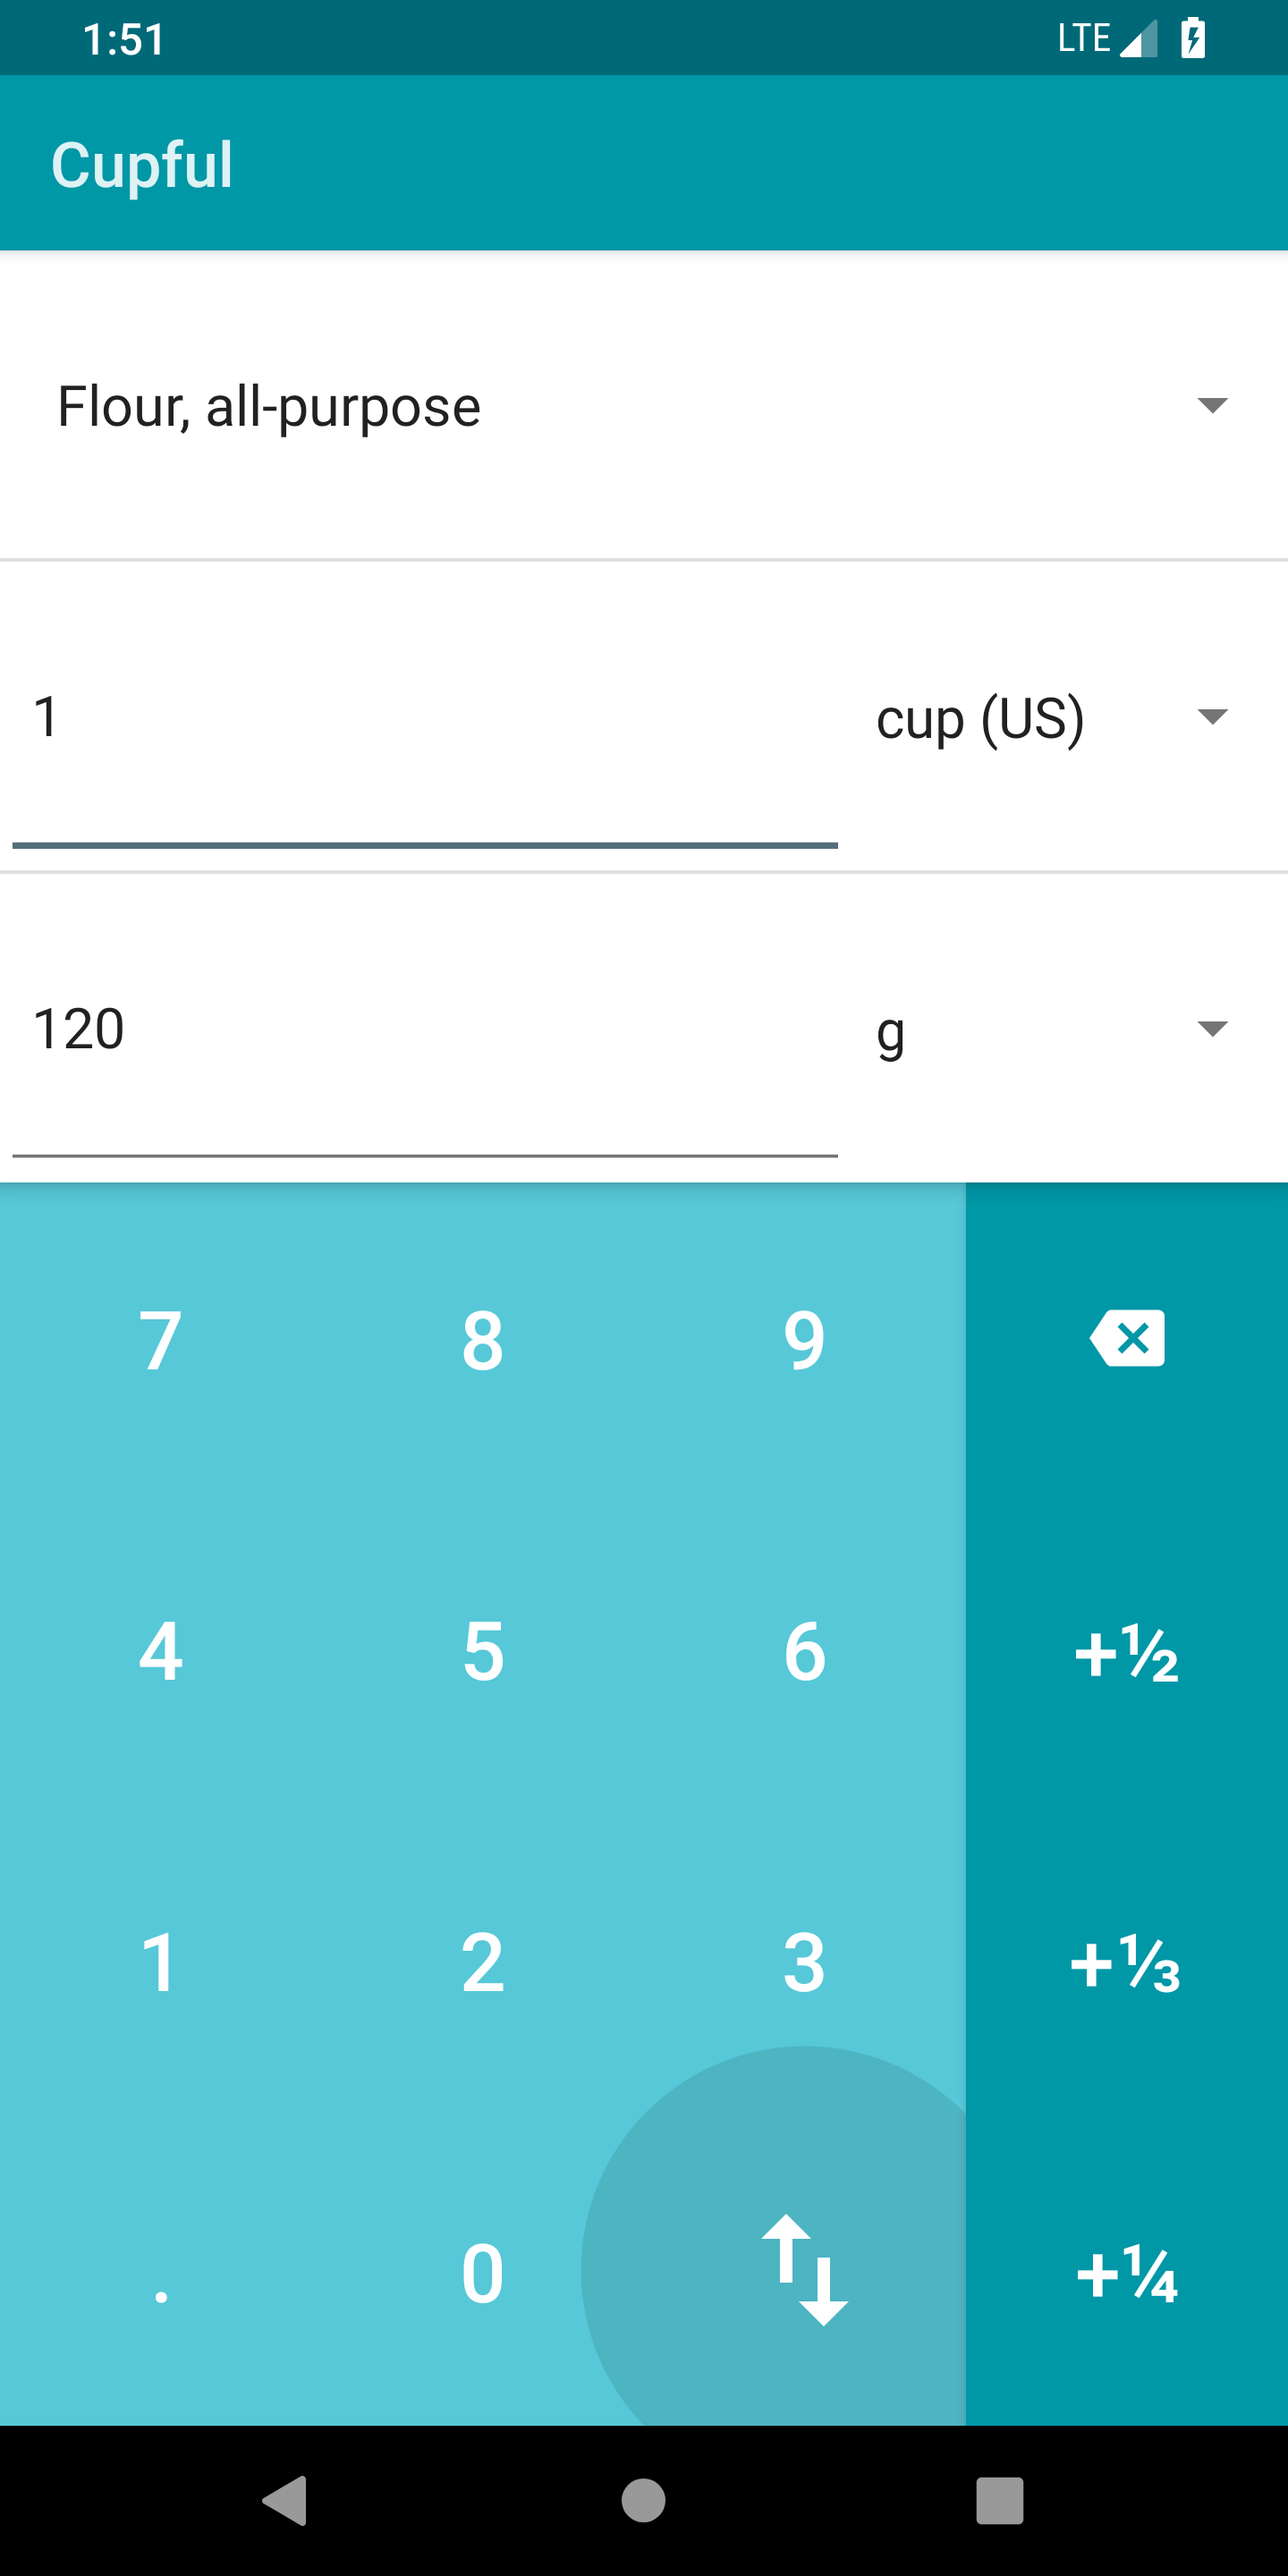
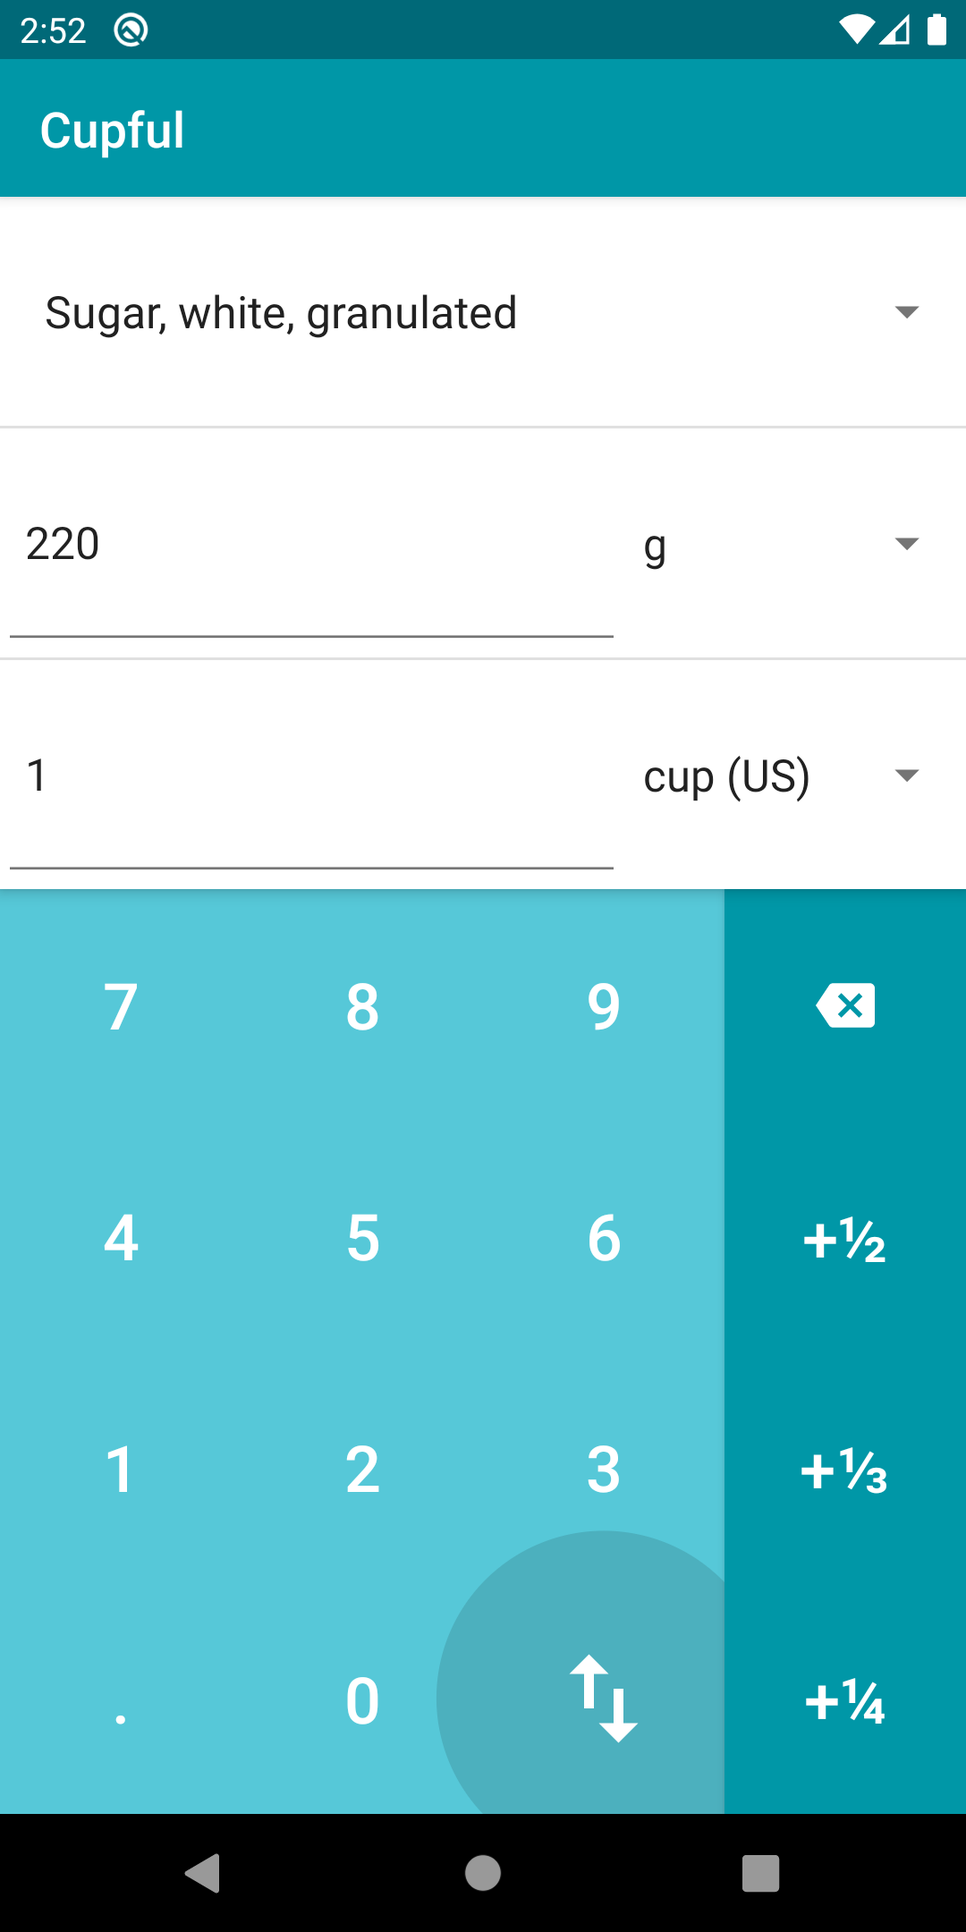
Update screenshots

diff --git a/README.md b/README.md
@@ -13,8 +13,6 @@ It's an essential tool for every baker and chef who values precise measurements 
 
 ## Screenshots
 
-TODO: Update these.
-
 | Conversion                 | Ingredients                |
 |:--------------------------:|:--------------------------:|
 | ![Screenshot][screenshot1] | ![Screenshot][screenshot4] |
